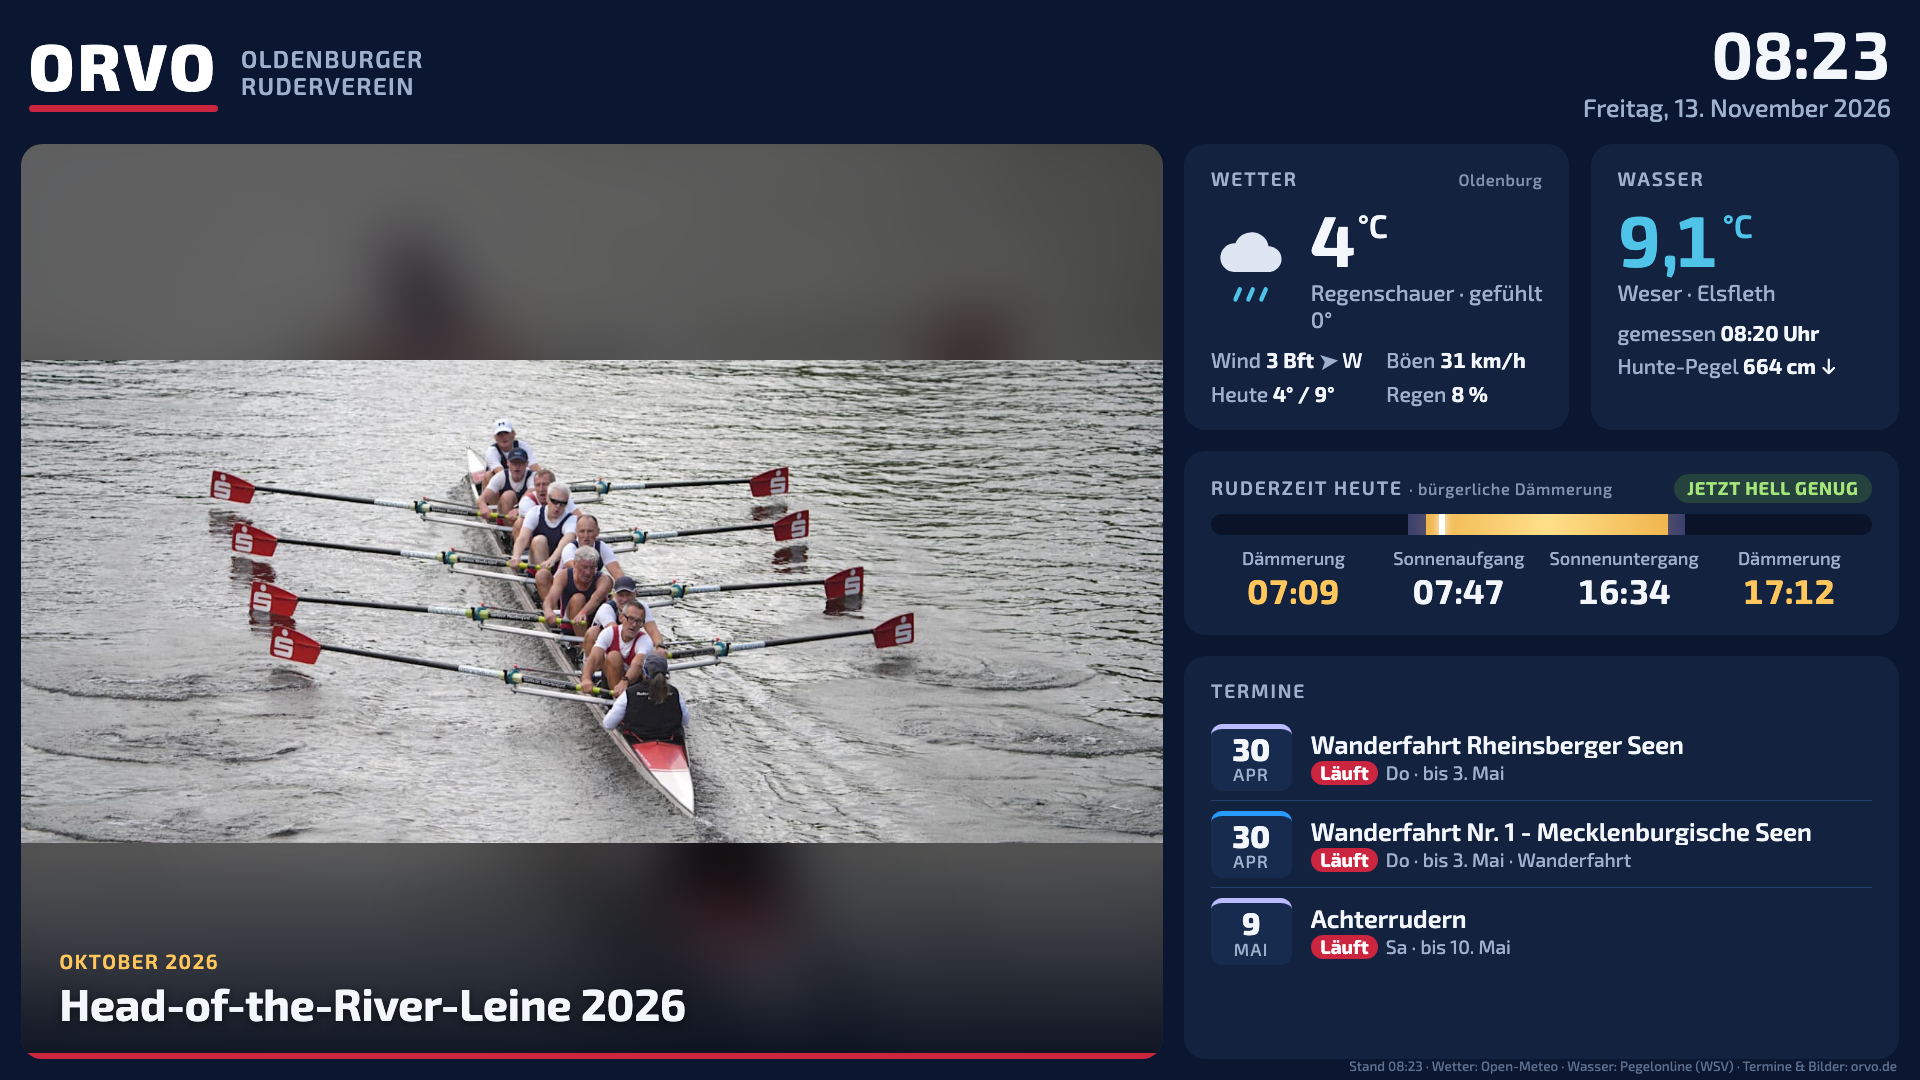
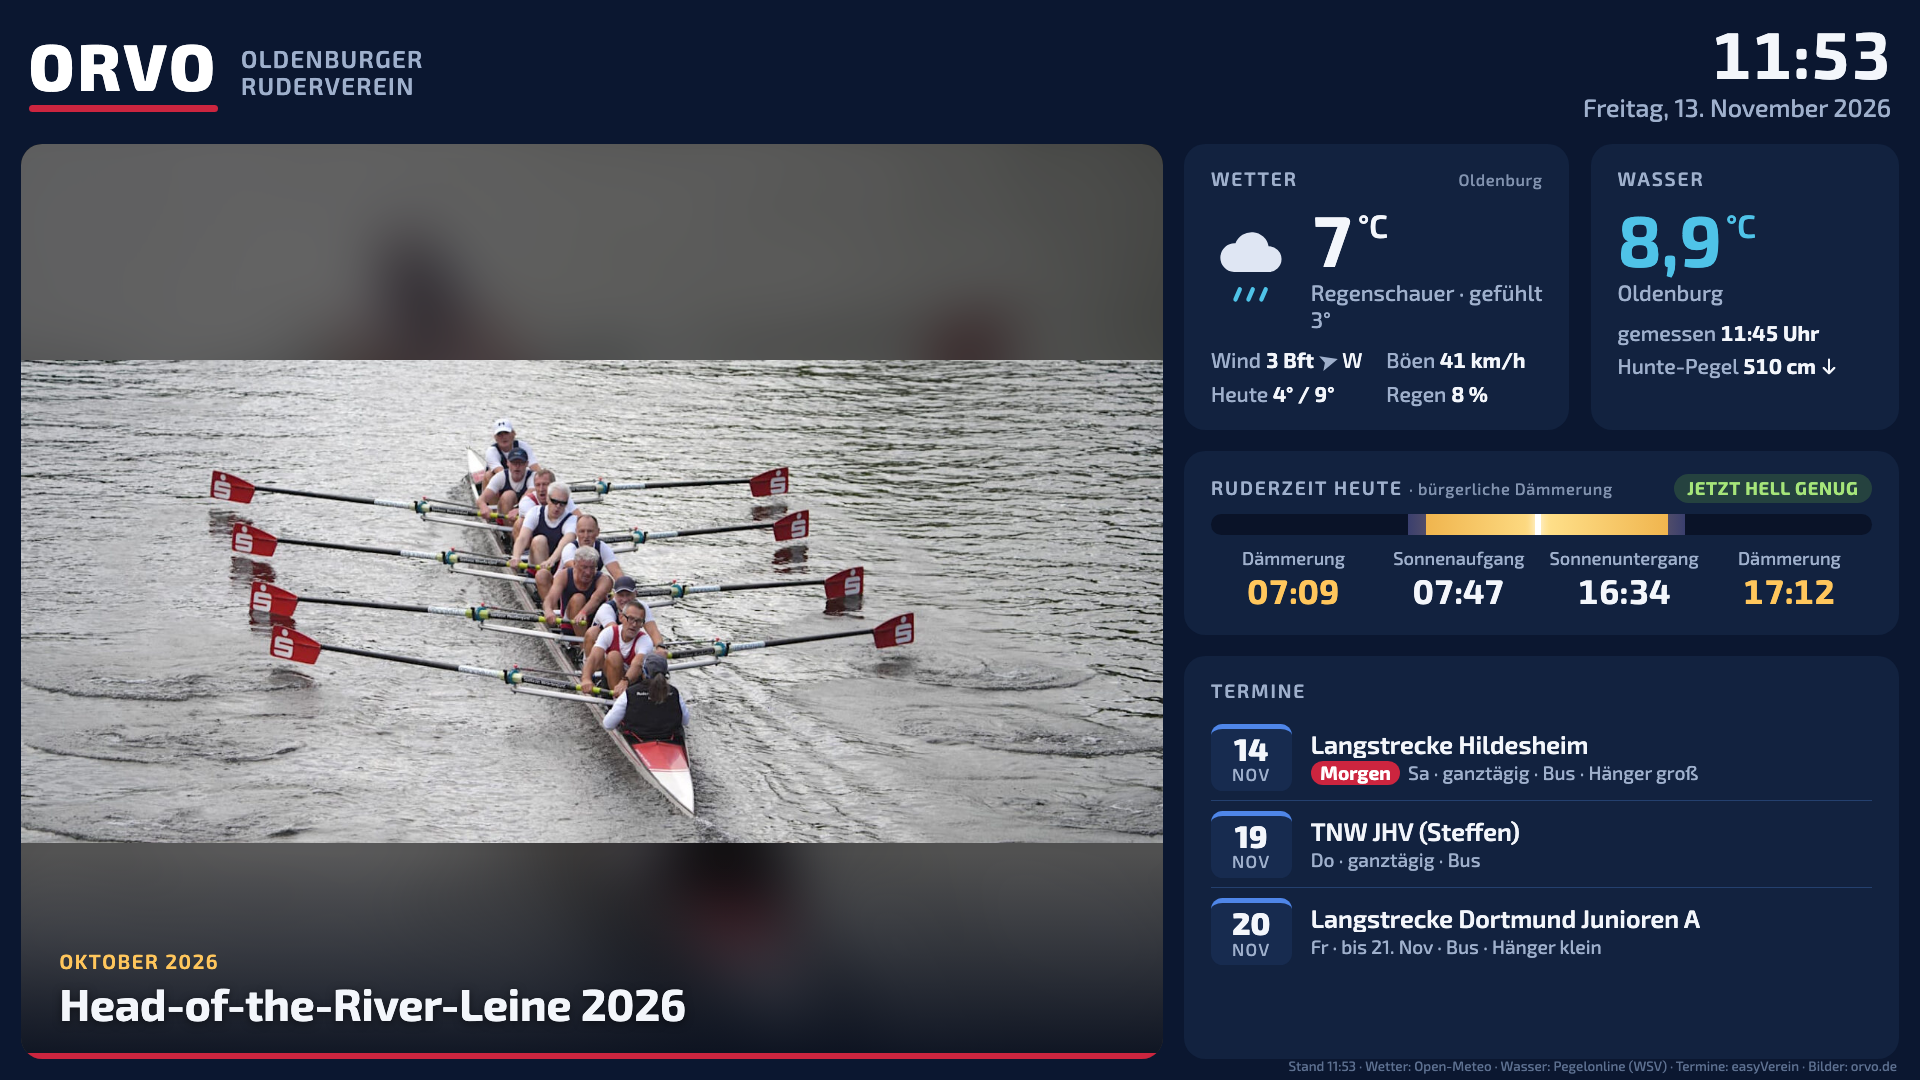
Dokumentation auf aktuellen Stand gebracht
easyVerein-Abgleich (Zeitplan, Keepalive, eventsUrl, Handaufruf),
Entscheidung für öffentliches Repository, offene Punkte, neue Vorschau.

diff --git a/docs/DOKUMENTATION.md b/docs/DOKUMENTATION.md
@@ -6,7 +6,7 @@ Digitale Anzeige für den Eingangsbereich des **Oldenburger Rudervereins (ORVO)*
 
 ![Vorschau der Anzeige in 1920×1080](vorschau.png)
 
-*Vorschau in 1920×1080. Die Termine stammen hier aus einem Testzeitraum; im Betrieb zeigt die Karte die kommenden Termine.*
+*Vorschau in 1920×1080 (13. November 2026) mit Terminen aus easyVerein.*
 
 ---
 
@@ -184,13 +184,19 @@ Gestaltung: dunkelblauer Hintergrund (schont den Fernseher und blendet weniger),
 Die Termine kommen aus dem Vereinskalender in **easyVerein** (Abo-Adresse „Kalender abonnieren“ im öffentlichen Kalender, nach Anmeldung sichtbar).
 
 **Abgleich** (`tools/easyverein.py`, ausgeführt von der GitHub Action `.github/workflows/termine.yml`):
-1. Die Action läuft alle 30 Minuten (GitHub startet zeitgesteuerte Läufe oft einige Minuten später), außerdem von Hand unter **Actions → Termine aus easyVerein → Run workflow**.
+1. Die Action läuft alle 30 Minuten, jeweils zur 7. und 37. Minute (GitHub startet zeitgesteuerte Läufe oft einige Minuten später). Außerdem läuft sie nach Änderungen am Skript oder Workflow und von Hand unter **Actions → Termine aus easyVerein → Run workflow**.
 2. Sie lädt die ICS-Datei. Die Adresse steht im Repository-Secret **`EASYVEREIN_ICS`** und nie im Code.
 3. Übernommen werden nur **Titel, Beginn, Ende und Kalendername**. Beschreibungen werden bewusst verworfen, denn sie enthalten Telefonnummern, E-Mail-Adressen und Kontodaten. `events.json` ist öffentlich lesbar.
 4. Buchungen derselben Veranstaltung (z. B. „Midwinter“ im Kalender *Bus* und „Midwinter (mittlerer Hänger)“ im Kalender *Anhänger mittel*) werden zu **einem** Termin zusammengefasst. Bus, Hänger und Clubraum erscheinen dann als Hinweis: „Fr · bis 20. Dez · Bus · Hänger mittel“.
 5. Der Kalender *Vorstand* wird nicht übernommen.
 6. Termine, die easyVerein als 00:00 UTC bis 23:59 speichert, werden als ganztägig gezeigt.
 7. Nur wenn sich etwas geändert hat, committet die Action eine neue `events.json`; GitHub Pages veröffentlicht sie danach.
+8. GitHub pausiert zeitgesteuerte Workflows nach 60 Tagen ohne Commits. Die Action schaltet sich deshalb bei jedem geplanten Lauf selbst wieder ein (`gh api … /enable`), ohne dafür Commits zu erzeugen.
+9. Fehlt das Secret, endet der Lauf mit der Warnung „Secret EASYVEREIN_ICS fehlt“ und ändert nichts.
+
+Von Hand ausführen (z. B. zum Testen): `EASYVEREIN_ICS='<Abo-Adresse>' python3 tools/easyverein.py events.json`. Das Skript braucht nur Python 3.9 oder neuer, keine Zusatzpakete.
+
+**Abruf durch die Seite:** `index.html` lädt die Termine immer von der festen Adresse `https://schulze9.github.io/orvo-anzeige/events.json` (Einstellung `eventsUrl`). GitHub Pages erlaubt den Abruf von jeder Seite aus (CORS). Deshalb funktioniert dieselbe `index.html` auch als lokale Datei oder auf orvo.de.
 
 **Anzeige:**
 - Gezeigt werden die nächsten **120 Tage**, höchstens 6 Termine, und nur so viele, wie vollständig in die Karte passen.
@@ -243,9 +249,10 @@ Pegelonline-Basisadresse: `https://www.pegelonline.wsv.de/webservices/rest-api/v
 |---|---|---|
 | `lat`, `lon` | 53.1375, 8.2240 | Standort für Wetter und Sonnenzeiten |
 | `site` | `https://orvo.de` | WordPress-Seite für die Bilder |
+| `eventsUrl` | `https://schulze9.github.io/orvo-anzeige/events.json` | Woher die Termine geladen werden |
 | `posts` | 10 | Anzahl der Beiträge für die Bilderstrecke |
 | `imagesPerPost` | 6 | Höchstzahl Bilder pro Beitrag |
-| `eventDays` | 120 | Wie viele Tage im Voraus Termine geladen werden |
+| `eventDays` | 120 | Wie viele Tage im Voraus Termine angezeigt werden |
 | `maxEvents` | 6 | Höchstzahl geladener Termine |
 | `waterTempStation` | Elsfleth | Pegelonline-Messstelle für die Wassertemperatur |
 | `levelStation` | Oldenburg-Drielake | Pegelonline-Messstelle für den Pegel |
@@ -307,7 +314,7 @@ Die Seite kann jederzeit auf den Webspace von orvo.de umziehen:
 
 Vorteil: Die Bilder kommen dann von derselben Adresse wie die Seite selbst.
 
-**Termine nach dem Umzug:** `events.json` wird weiter von der GitHub Action erzeugt. In `index.html` dann `getJSON("events.json…")` auf `https://schulze9.github.io/orvo-anzeige/events.json` ändern (GitHub Pages erlaubt den Abruf von fremden Seiten). Alternativ das Skript als Cronjob beim Hoster laufen lassen.
+**Termine nach dem Umzug:** Es ist keine Änderung nötig. `index.html` lädt die Termine schon von der GitHub-Adresse (`eventsUrl`), und die Action erzeugt `events.json` weiter. Dafür muss das GitHub-Repository **öffentlich** bleiben. Soll GitHub ganz entfallen, `tools/easyverein.py` als Cronjob beim Hoster laufen lassen und `eventsUrl` auf die dort erzeugte Datei setzen.
 
 ---
 
@@ -341,6 +348,12 @@ Yodeck nutzt nur einen HDMI-Ausgang des Pi. Mit dem Splitter zeigen Fernseher un
 **Warum eine eigene Anzeigeseite statt Yodeck-Layouts?**
 Termine, Bilder, Wasserdaten und Dämmerungszeiten kommen automatisch aus vorhandenen Quellen. Niemand muss Inhalte doppelt pflegen.
 
+**Warum easyVerein über eine GitHub Action?**
+Die Termine werden im Verein in easyVerein gepflegt. easyVerein bietet dafür ein ICS-Abo, aber ohne CORS, und die Adresse enthält einen geheimen Schlüssel. Ein Browser kann die Datei deshalb nicht direkt laden, und die Adresse darf nicht in die öffentliche Seite. Die Action hält den Schlüssel als Secret geheim und veröffentlicht nur die nötigen Angaben. Der öffentliche easyVerein-Kalender (`easyverein.com/public/ORVO/calendar`) war keine Alternative: Ohne Anmeldung zeigt er keine Termine.
+
+**Warum ist das Repository öffentlich?**
+GitHub Pages funktioniert mit einem kostenlosen GitHub-Konto nur für öffentliche Repositorys. Wird das Repository privat, sind die Anzeigeseite und `events.json` nicht mehr erreichbar. Das Repository enthält keine Zugangsdaten: Die easyVerein-Adresse liegt nur als Secret vor, WLAN- und Yodeck-Passwörter stehen nirgends. Öffentlich sind Code, Dokumentation und die Termintitel mit Datum. Entscheidung am 13. November 2026: öffentlich lassen.
+
 **Warum bürgerliche Dämmerung?**
 Sie bestimmt, wann es hell genug zum Rudern ist. Die Anzeige zeigt deshalb diese Zeiten hervorgehoben.
 
@@ -353,3 +366,11 @@ Sie bestimmt, wann es hell genug zum Rudern ist. Die Anzeige zeigt deshalb diese
 - [ ] Seite auf orvo.de umziehen (optional, siehe [Abschnitt 9](#9-umzug-der-seite-auf-orvode)).
 - [ ] Im Vereinsnetz eine feste IP-Adresse für den Pi vergeben (erleichtert SSH).
 - [ ] Optional: Eilmeldungs-Zeile für kurzfristige Hinweise (z. B. „Training fällt aus“).
+- [ ] Beim ersten Lauf, der neue Termine committet, prüfen, ob GitHub Pages `events.json` danach neu veröffentlicht.
+- [ ] Passwort des easyVerein-Zugangs ändern (es stand im Chat). Die Abo-Adresse bleibt davon unberührt.
+- [ ] Klären, ob die Kalender *Vereinstermine*, *Regatten* und *Trainingszeiten* im Abo enthalten sind. Derzeit liefert das Abo nur Bus, Anhänger, Clubraum und Wanderfahrten.
+
+Erledigt:
+- [x] Termine aus easyVerein statt aus dem Kalender auf orvo.de (13. November 2026).
+- [x] Secret `EASYVEREIN_ICS` hinterlegt, Action getestet (7 Termine übernommen).
+- [x] Ortsangabe der Wassertemperatur auf „Oldenburg“ geändert.
